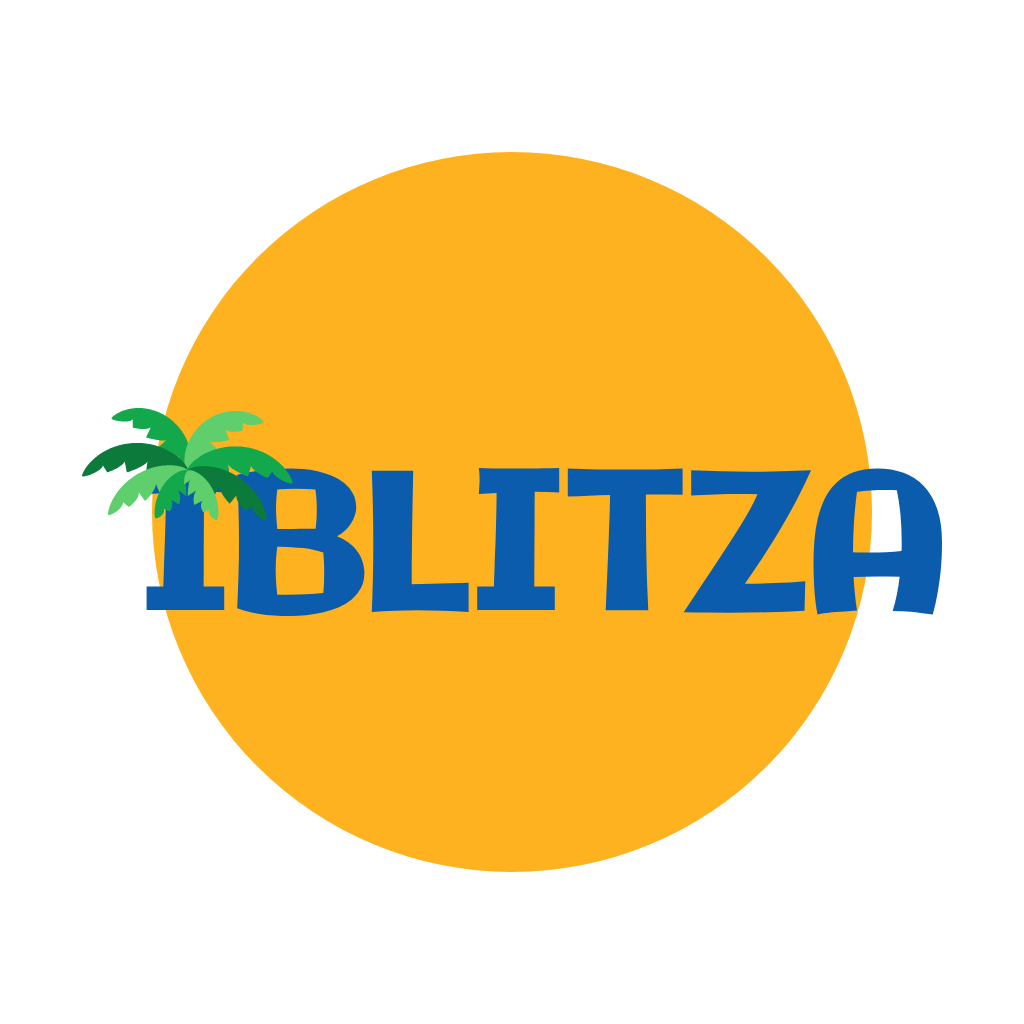
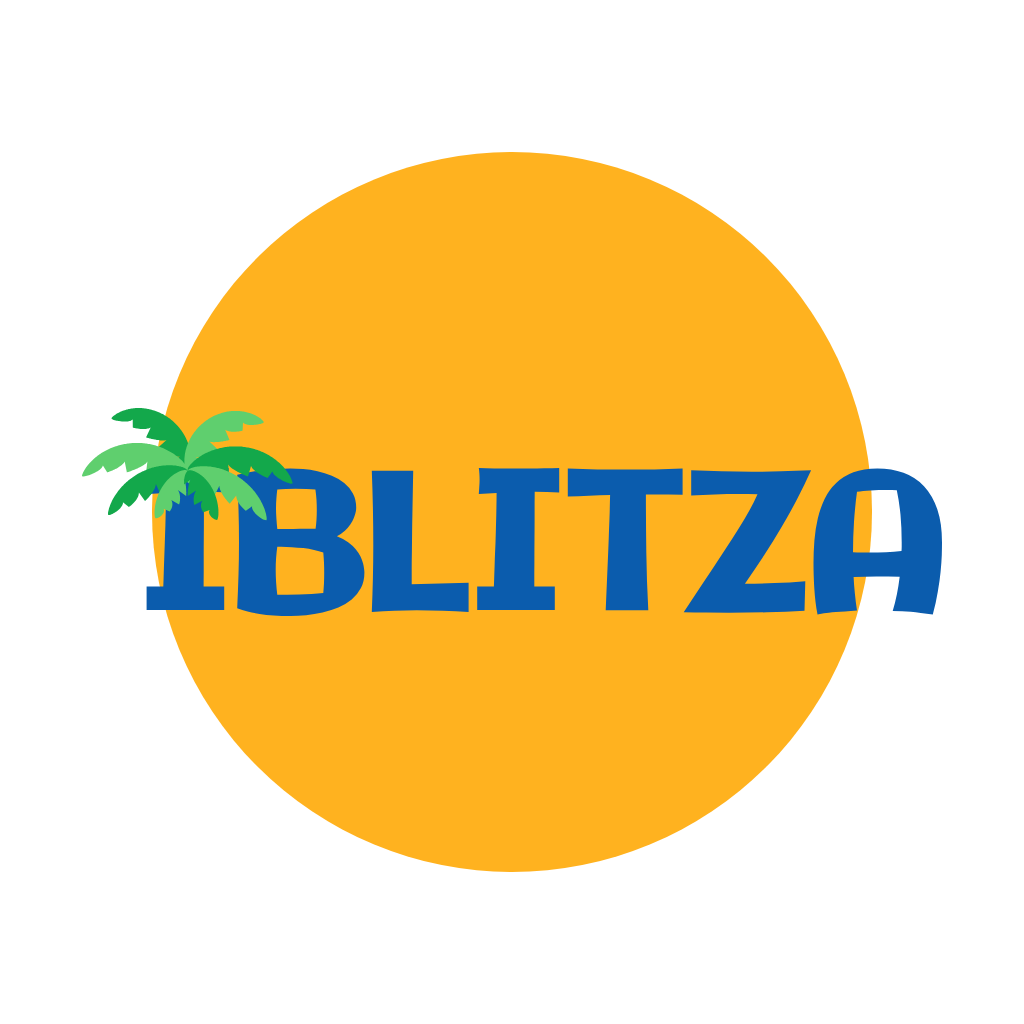
Palm in two greens: mid and light, alternating
Dark green dropped; the two shades alternate down each side and are
crossed between left and right, so neighbouring fronds always differ.

Claude-Session: https://claude.ai/code/session_01J2mtdas9J5grVDqkEo4DN3

Changed region(s): [[0.0625, 0.4062, 0.2812, 0.5]]

diff --git a/brand/make_logo.py b/brand/make_logo.py
@@ -3,7 +3,7 @@
 The I is a palm tree: the letter is the trunk, with a few wavy rings cut into it, and a crown
 of fronds sits on top of it. The word sits across a warm sun disc and breaks out of it.
 
-Colour (flat, on white): blue lettering, palm in three greens, warm orange-yellow sun. One colour: the sun is solid ink and
+Colour (flat, on white): blue lettering, palm in two greens, warm orange-yellow sun. One colour: the sun is solid ink and
 whatever of the word and palm falls on it is knocked out to the paper colour, so the mark
 holds up printed in black only (or white only on a dark ground).
 
@@ -28,7 +28,7 @@ FONT = TTFont(ARGS.font)
 
 BLUE = '#0b5cad'                     # lettering: Mediterranean blue
 SUN = '#ffb21f'                      # the sun disc
-GREENS = ['#0b7a3b', '#13a84b', '#5fcf6e']   # palm, flat: dark, mid, light
+GREENS = ['#13a84b', '#5fcf6e']     # palm, flat: mid, light
 WHITE = '#ffffff'                    # background
 
 
@@ -150,12 +150,12 @@ def frond(x, y, L, a0, bend, W, teeth=4):
 
 # (angle from upright, curl, length, half-width, shade), back to front: two fronds arching
 # up and over, two long ones spreading out, two drooping lower, two short ones hanging close.
-# Shades (0 dark, 1 mid, 2 light) are mixed, not mirrored, and neighbours always differ.
+# Two shades (0 mid, 1 light) alternate down each side, mirrored crosswise, so neighbours differ.
 FRONDS = [
-    (-12, -100, 0.92, .17, 1), (14, 100, 0.90, .17, 2),
-    (-58, -80, 1.00, .17, 0), (62, 80, 1.00, .17, 1),
-    (-95, -55, 0.82, .16, 2), (98, 55, 0.84, .16, 0),
-    (-135, -25, 0.50, .14, 1), (138, 25, 0.50, .14, 2),
+    (-12, -100, 0.92, .17, 0), (14, 100, 0.90, .17, 1),
+    (-58, -80, 1.00, .17, 1), (62, 80, 1.00, .17, 0),
+    (-95, -55, 0.82, .16, 0), (98, 55, 0.84, .16, 1),
+    (-135, -25, 0.50, .14, 1), (138, 25, 0.50, .14, 0),
 ]
 
 
@@ -211,7 +211,7 @@ def disc(cx, cy, r, n=180):
 
 
 def colour(word, fronds, cap, sun=None):
-    """Full colour, flat: optional sun disc (cx, cy, r), blue word, palm in three flat greens."""
+    """Full colour, flat: optional sun disc (cx, cy, r), blue word, palm in two flat greens."""
     out = []
     if sun:
         out.append(f'<circle cx="{sun[0]}" cy="{sun[1]}" r="{sun[2]}" fill="{SUN}"/>')

diff --git a/brand/README.md b/brand/README.md
@@ -20,8 +20,8 @@ any size.
 knocked out to the paper colour, so the mark works printed in black only, or white only on a
 dark ground.
 
-Colours, all flat on white: blue `#0b5cad` (lettering), sun `#ffb21f`, palm in three greens
-`#0b7a3b` / `#13a84b` / `#5fcf6e`, mixed across the fronds.
+Colours, all flat on white: blue `#0b5cad` (lettering), sun `#ffb21f`, palm in two greens
+`#13a84b` / `#5fcf6e`, alternating across the fronds.
 Lettering: Galindo (SIL Open Font License, see `OFL-Galindo.txt`).
 
 Regenerate with `pip install fonttools brotli skia-pathops && python3 brand/make_logo.py`
